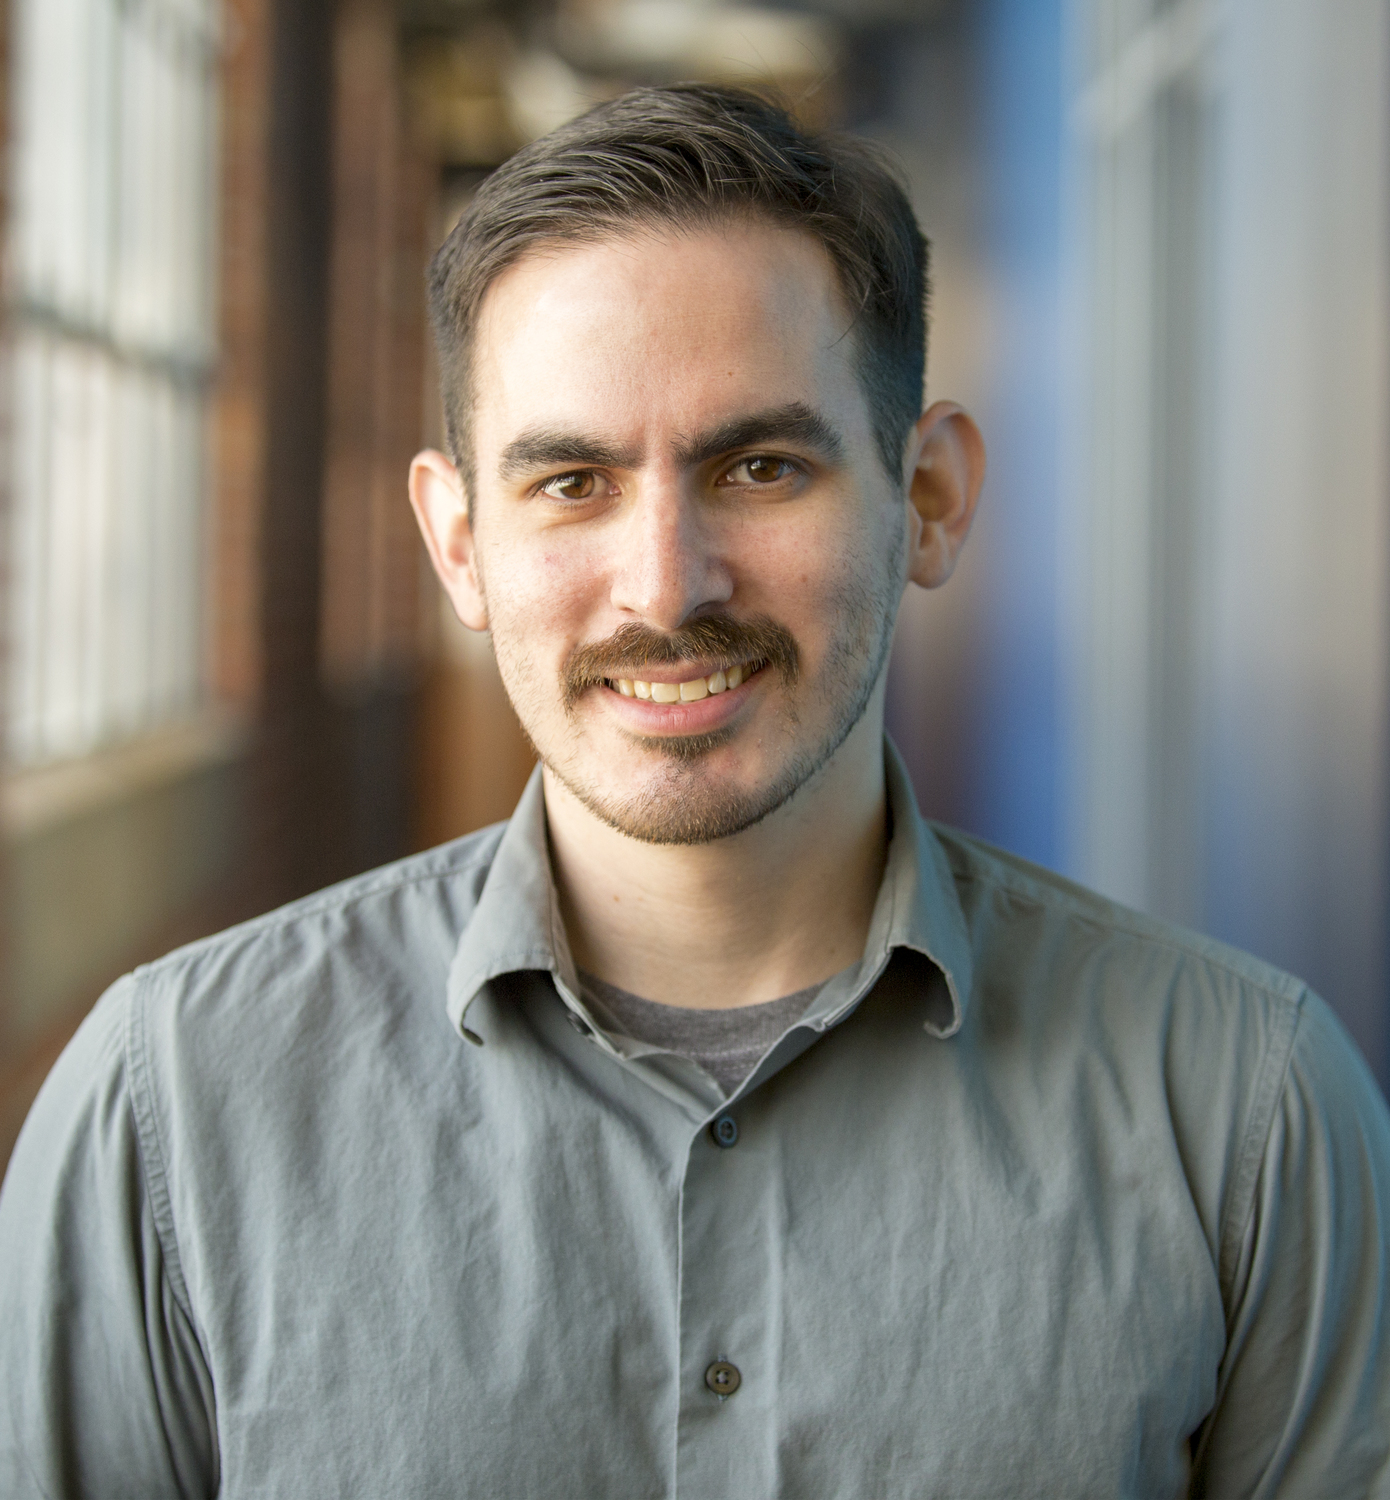
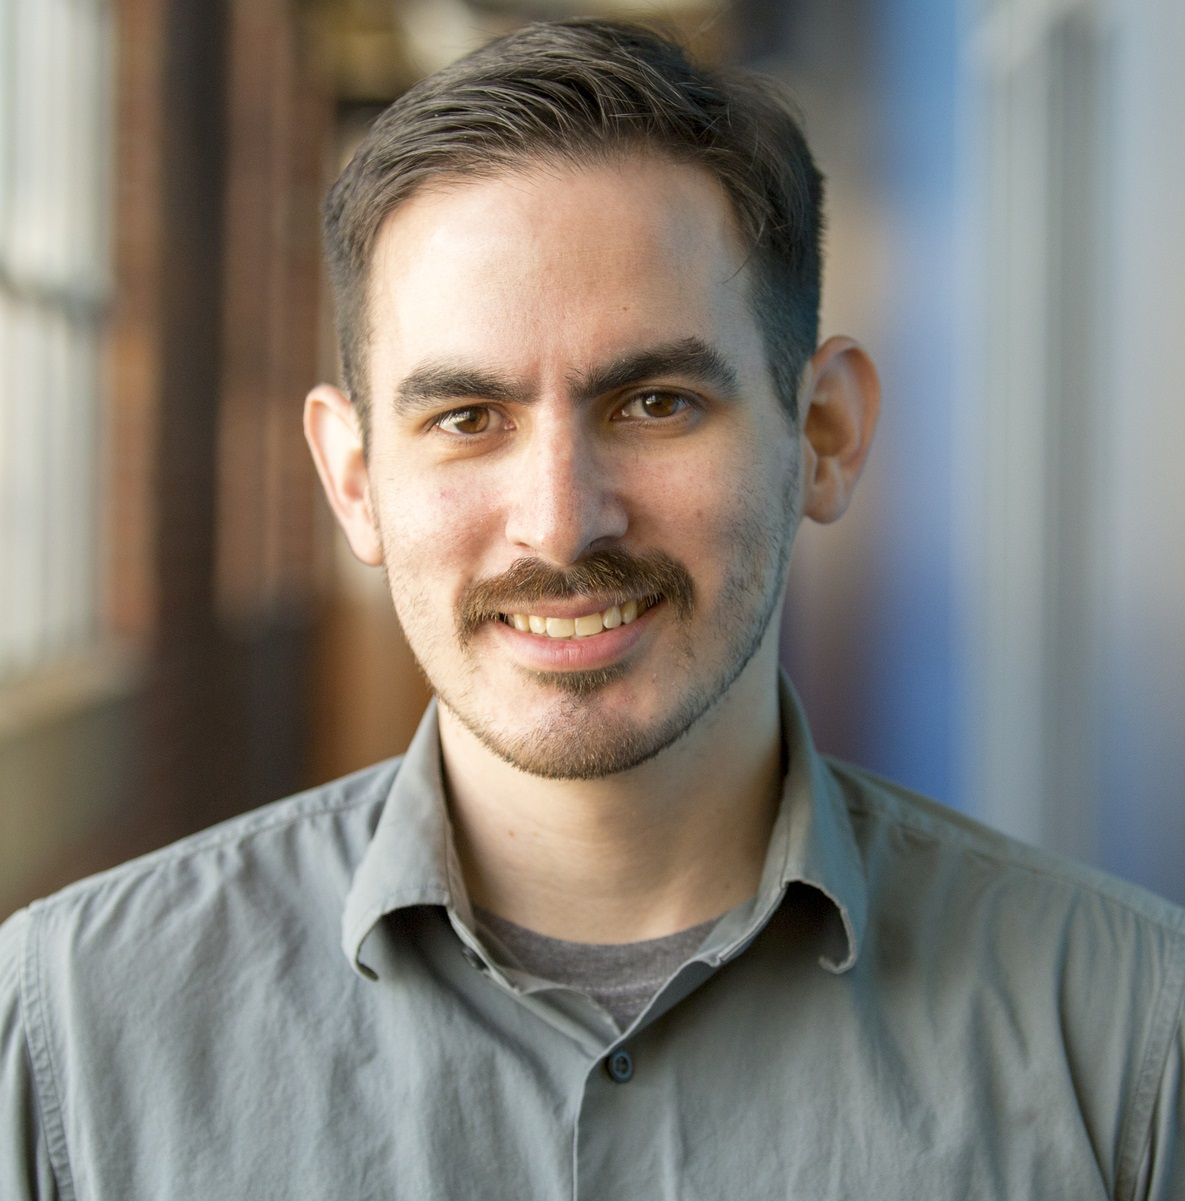
added profile pics and google analytics

diff --git a/comingsoontwo.html b/comingsoontwo.html
@@ -23,6 +23,16 @@
 	<!-- Custom styles for this template -->
 	<link href="css/main_two.css" rel="stylesheet">
 
+	<!-- Global site tag (gtag.js) - Google Analytics -->
+	<script async src="https://www.googletagmanager.com/gtag/js?id=UA-119630968-1"></script>
+	<script>
+		window.dataLayer = window.dataLayer || [];
+		function gtag(){dataLayer.push(arguments);}
+		gtag('js', new Date());
+
+		gtag('config', 'UA-119630968-1');
+	</script>
+
 </head>
 
 <body id="page-top">

diff --git a/css/main_two.css b/css/main_two.css
@@ -176,7 +176,7 @@ img::-moz-selection {
 header.masthead {
   text-align: center;
   color: white;
-  background-image: url("../img/IMG_7483.jpg");
+  background-image: url("../img/about/mario.jpg");
   background-repeat: no-repeat;
   background-attachment: scroll;
   background-position: center center;
